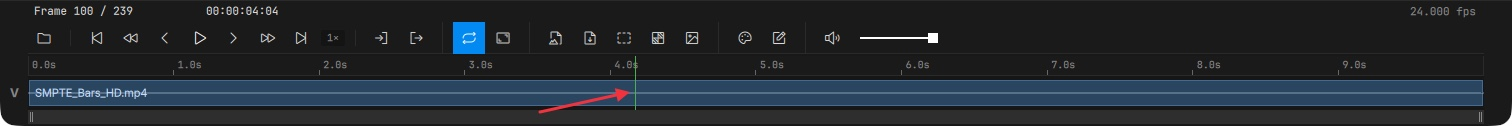
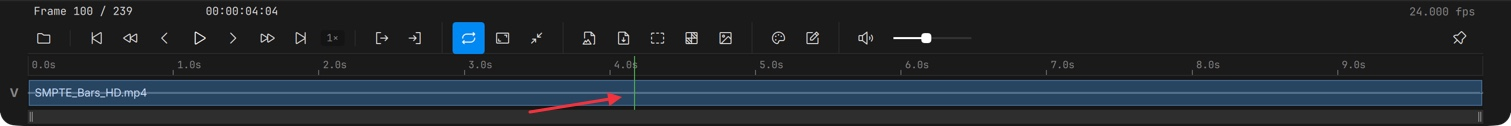
docs

diff --git a/docs/basics.md b/docs/basics.md
@@ -72,7 +72,7 @@ You can also use the mouse to toggle panels. Rails can be opened and closed by c
 
 Compact Mode is for a window that is nothing but the picture: every panel, rail and toolbar goes away, the window loses its title bar, and a 22 px strip under the viewport keeps a play / pause button, the timecode, a scrub line with the playhead and in / out marks, a pin (Always on Top) and an exit button; `F` still toggles fullscreen. The transport row has the same Compact Mode and pin buttons next to fullscreen. Drag the timecode to move the window; the window's edges still resize it. Scrubbing on the strip works the way the timeline does, in single, dual and playlist view. Live sources show a live dot instead of the playhead. On macOS the menu bar stays at the top of the screen; on Windows the menu is hidden with the rest of the chrome, so use the shortcuts (`Alt + F4` still closes the app).
 
-![Compact Mode: the picture, and one strip with play / pause, timecode, the scrub line and the expand button](images/qcv044.png)
+![Compact Mode: the picture, and one strip with play / pause, timecode, the scrub line, the pin and the exit button](images/qcv044.png)
 
 
 ## Backgrounds and Overlays

diff --git a/docs/timeline.md b/docs/timeline.md
@@ -22,6 +22,8 @@ The bottom of the viewport contains playback controls and timeline navigation. T
 | Fast-forward | Press and hold — accelerates over time | `D` / `L` (hold) | `D` / `L` (hold) |
 | End | Jump to end of media | `End` (or `Fn + →`) | `End` |
 
+The right end of the row holds loop, fullscreen and Compact Mode, the two screenshot buttons, the Color and Notes panel toggles and the volume; flush right, apart from the rest, sits the pin (Always on Top, `Ctrl + Alt + T`), which keeps the window above other apps and is remembered — see [Layout Presets](/basics/#layout-presets).
+
 On a live feed the transport keys are ignored and `M` mutes it; `Space` freezes the feed for a note and brings it back (see [Notes on live feeds](/annotations/#notes-on-live-feeds)).
 
 In **playlist mode**, additional **Prev clip** / **Next clip** buttons appear. They jump the playhead to the start of the previous or next clip in the playlist. Prev snaps to the current clip's start first (mid-clip); a second press jumps to the previous clip.

diff --git a/docs/index.md b/docs/index.md
@@ -33,6 +33,7 @@ nav_order: 1
 - Bundled OCIO configs: ACES 2.0, ACES 1.3, Blender 5.2, Blender 5.1
 - A second, OCIO-free colour engine, **minColor**: Input → Highlight Knee → AgX → Rendering (un-tone-mapped or OpenDRT) → Display, from the minColorAE core
 - **Compact Mode** (`Ctrl + Shift + C`): the window becomes the picture plus one slim strip, no title bar, no panels
+- **Always on Top** (`Ctrl + Alt + T`): a pin on the transport row and the Compact strip keeps the window above every other app's, and is remembered
 - Highlight Knee for reviewing HDR masters on SDR displays; ASC CDL and `.cube` LUTs
 - GPU vectorscope and waveform (nits on HDR sources, manual % / nits scale) with a peak readout, and a per-clip Transfer override for sources without usable tags
 - Screenshots and notes exports apply the OCIO transform
